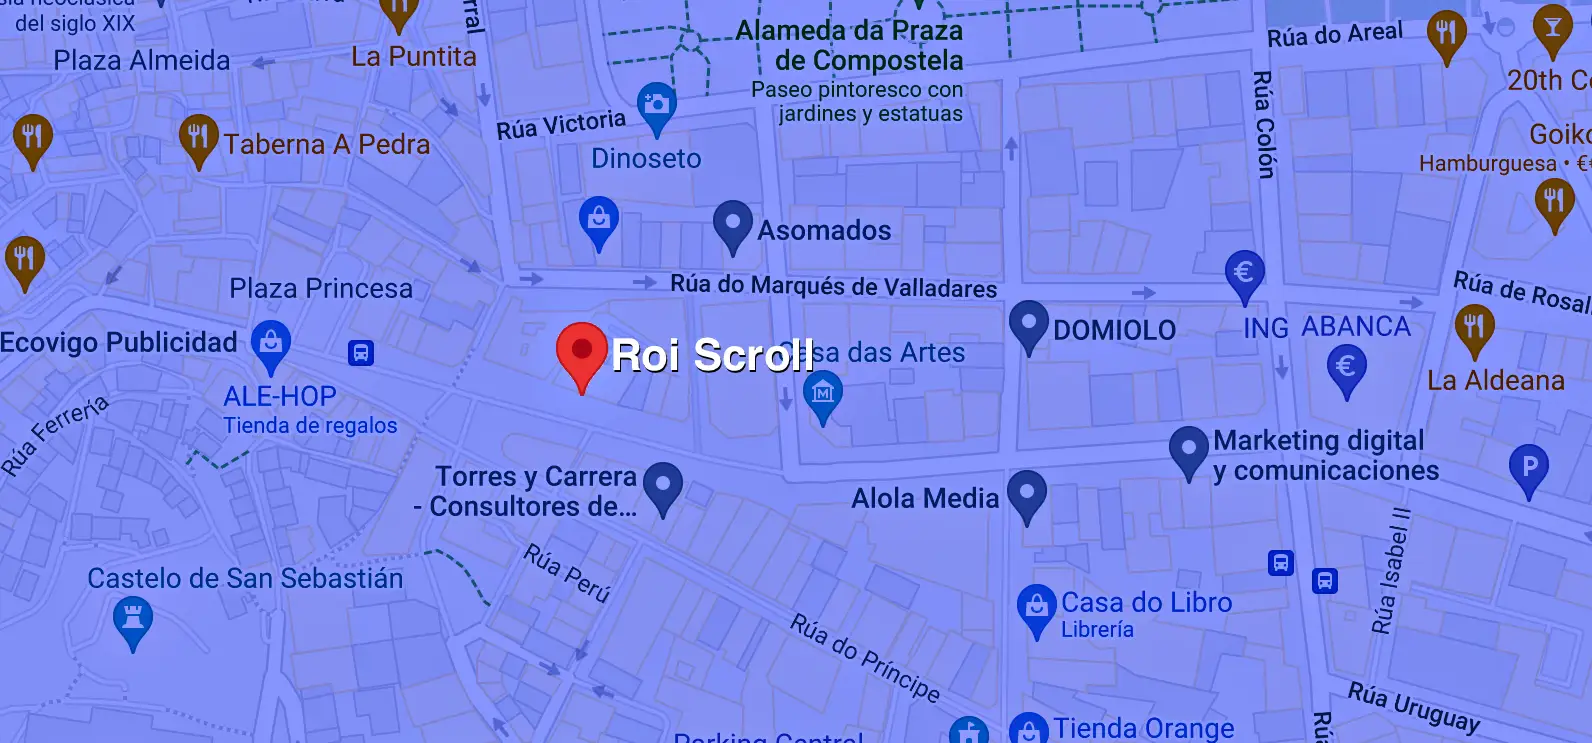
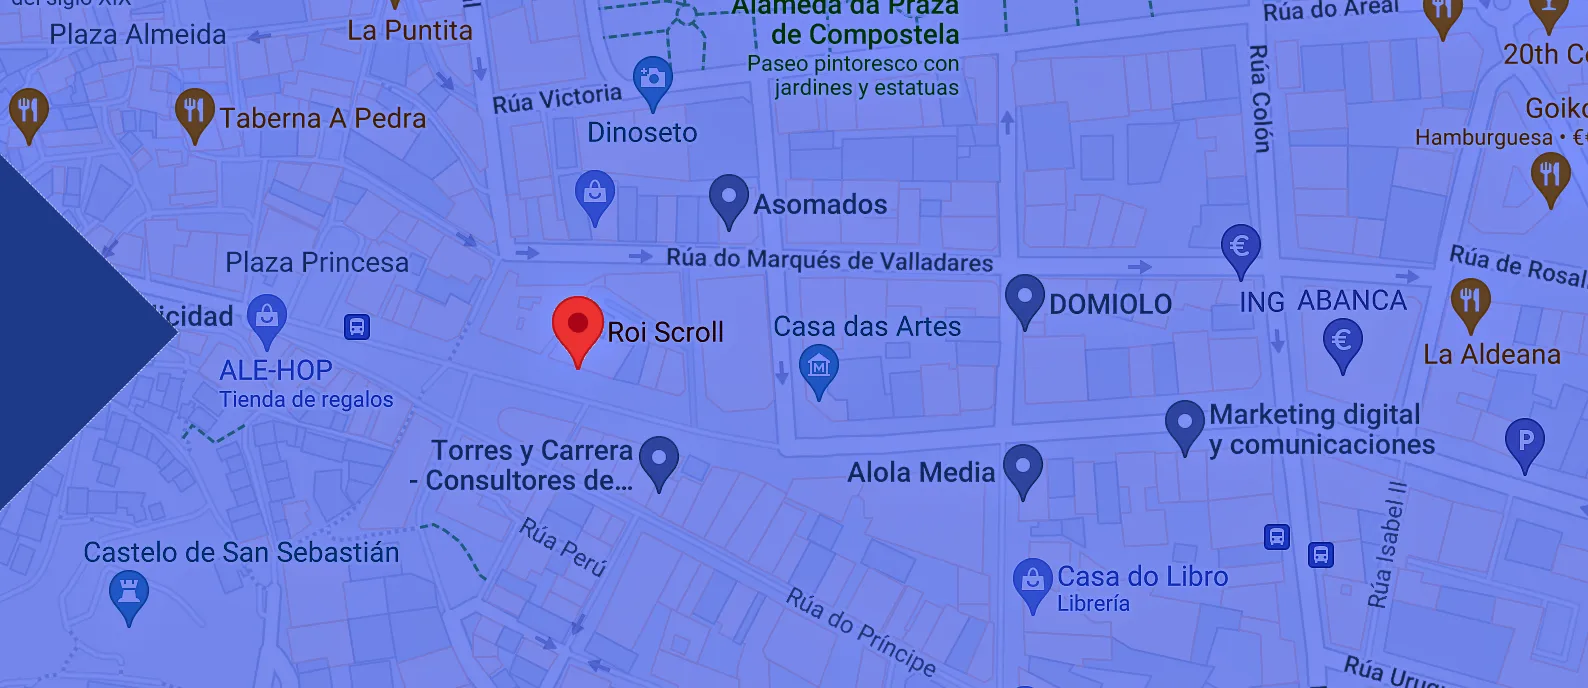
mejoras en el mapa del footer

diff --git a/src/lib/Footer/FCierre.svelte b/src/lib/Footer/FCierre.svelte
@@ -10,7 +10,7 @@
     </div> 
     <div class="capa_social w-full sm:w-1/2 ">
       
-      <div class="lista_iconos_social flex flex-row gap-4 justify-items-end text-right">
+      <div class="lista_iconos_social flex flex-row-reverse flex-row gap-4 ">
         <a class="bg-success transition ease-in-out duration-500 hover:bg-white p-4 rounded-full text-primary transform hover:scale-105" href="">
           <svg xmlns="http://www.w3.org/2000/svg" width="1.5em" height="1.5em" preserveAspectRatio="xMidYMid meet" viewBox="0 0 24 24"><path fill="currentColor" d="M23.643 4.937c-.835.37-1.732.62-2.675.733a4.67 4.67 0 0 0 2.048-2.578a9.3 9.3 0 0 1-2.958 1.13a4.66 4.66 0 0 0-7.938 4.25a13.229 13.229 0 0 1-9.602-4.868c-.4.69-.63 1.49-.63 2.342A4.66 4.66 0 0 0 3.96 9.824a4.647 4.647 0 0 1-2.11-.583v.06a4.66 4.66 0 0 0 3.737 4.568a4.692 4.692 0 0 1-2.104.08a4.661 4.661 0 0 0 4.352 3.234a9.348 9.348 0 0 1-5.786 1.995a9.5 9.5 0 0 1-1.112-.065a13.175 13.175 0 0 0 7.14 2.093c8.57 0 13.255-7.098 13.255-13.254c0-.2-.005-.402-.014-.602a9.47 9.47 0 0 0 2.323-2.41l.002-.003Z"/></svg>
         </a> 
@@ -31,7 +31,7 @@
 
 
       <div class="iconos_legal mt-5">
-        <div class="lista_legal flex justify-item-end gap-4">
+        <div class="lista_legal flex flex-row-reverse gap-4">
 
           <a text-white href="/Dp">Declaración de privacidad</a>
           <a text-white href="/Dr">Descargo de responsabilidad</a>

diff --git a/src/lib/Footer/FMapa.svelte b/src/lib/Footer/FMapa.svelte
@@ -8,11 +8,11 @@
   <link href='https://api.mapbox.com/mapbox-gl-js/v2.9.2/mapbox-gl.css' rel='stylesheet' />
 
 </svelte:head>
-<div class="bg-blue-900 bg-contain bg-right bg-no-repeat text-white" style="background-image:url('/img/localizacion_roiscroll.webp')">
+<div class="bg-blue-900 bg-contain bg-right bg-no-repeat text-white" style="background-image:url('/img/localizacion_roiscroll.jpg')">
   <div class="container columns-2 flex flex-wrap mx-auto relative py-10 h-80 p-4 w-full">
     <div class="w-full md:w-1/2 relative mb-4">
       <h2 class="text-success">Contáctanos</h2>
-      <p class="text-white">Calle Policarpo Sanz, nº3, 5º piso. <br>
+      <p class="text-white drop-shadow-sm">Calle Policarpo Sanz, nº3, 5º piso. <br>
         Vigo (Pontevedra) <br>
         CP 36202 <br>
         Tfl: +34 986 910 648 <br><br>
